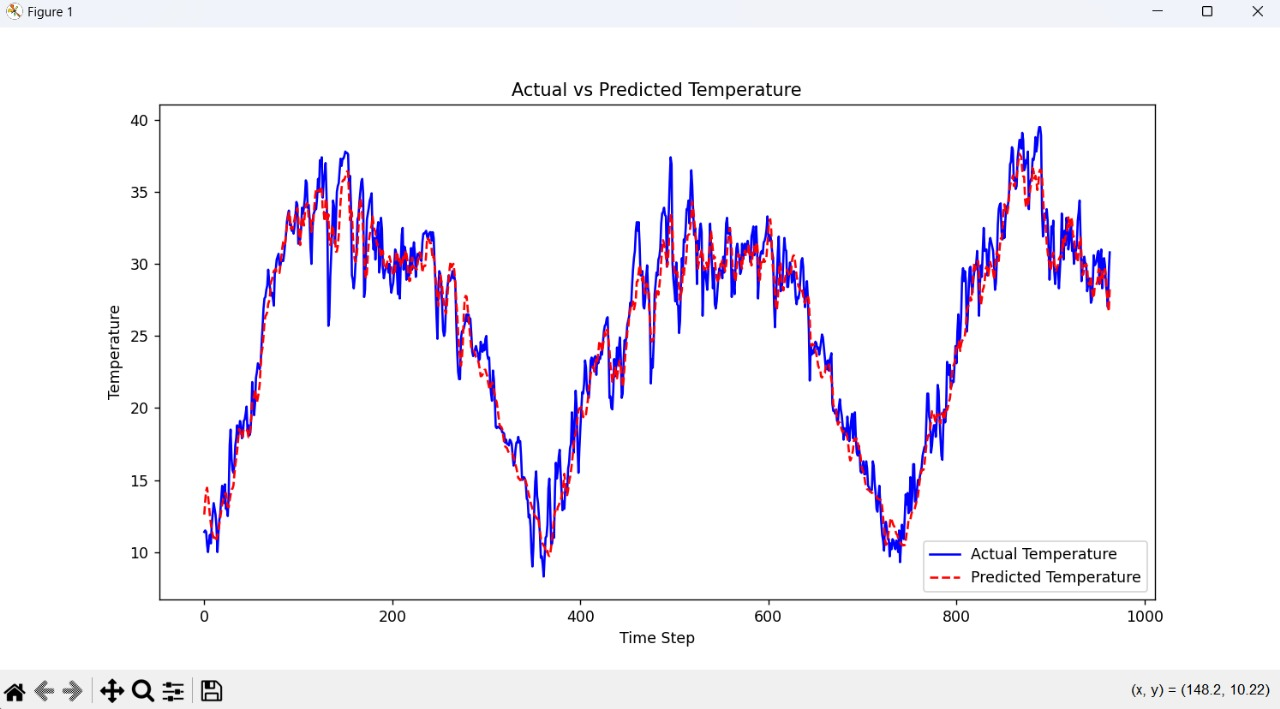
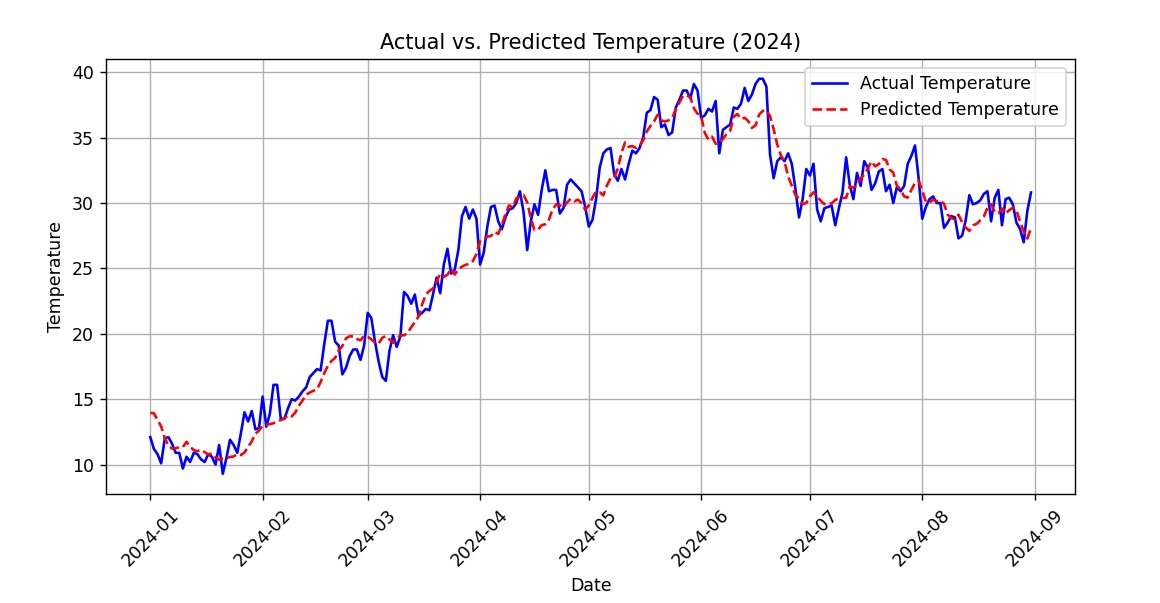
done lstm model for temperature prediction

diff --git a/AI_DRIVEN_ELECTRICITY_DEMAND_PREDICTION/Frontend/myapp/src/components/Models.jsx b/AI_DRIVEN_ELECTRICITY_DEMAND_PREDICTION/Frontend/myapp/src/components/Models.jsx
@@ -47,7 +47,7 @@ function PredictionCard({ title, modelName, rmseValue, imageSrc }) {
           <PredictionCard
             title="LSTM"
             modelName="LSTM"
-            rmseValue={1.7}
+            rmseValue={1.88}
             imageSrc={temp2}
           />
         </section>

diff --git a/AI_DRIVEN_ELECTRICITY_DEMAND_PREDICTION/temperature_prediction/lstm/model.py b/AI_DRIVEN_ELECTRICITY_DEMAND_PREDICTION/temperature_prediction/lstm/model.py
@@ -1,0 +1,145 @@
+import pandas as pd
+import numpy as np
+import tensorflow as tf
+import joblib
+import matplotlib.pyplot as plt
+from tensorflow.keras.models import Sequential, load_model
+from tensorflow.keras.layers import LSTM, Dense
+from sklearn.preprocessing import MinMaxScaler
+from sklearn.metrics import mean_squared_error, mean_absolute_error, r2_score
+
+# Load dataset
+df = pd.read_csv(r"C:\\Users\\raman\\Documents\\ELECTRICITY_DEMAND\\prediction_model\\data\\Dataset.csv", parse_dates=["Date"])
+
+# Extract date components
+df["Month"] = df["Date"].dt.month
+df["Day"] = df["Date"].dt.day
+df["Year"] = df["Date"].dt.year
+
+# Filter for 2024 data
+df_2024 = df[df["Year"] == 2024]
+
+# Define features and targets
+temp_features = ["dayofweek", "Month", "Day", "Year", "cloudcover", "feelslike"]
+temp_targets = ["tempmax", "tempmin", "temp"]
+
+# Scaling
+temp_scaler = MinMaxScaler()
+temp_target_scaler = MinMaxScaler()
+
+df[temp_features] = temp_scaler.fit_transform(df[temp_features])
+df[temp_targets] = temp_target_scaler.fit_transform(df[temp_targets])
+
+# Save scalers
+joblib.dump(temp_scaler, "temp_scaler.pkl")
+joblib.dump(temp_target_scaler, "temp_target_scaler.pkl")
+
+# Function to create LSTM sequences
+def create_sequences(data, target_columns, seq_length=10):
+    X, y = [], []
+    for i in range(len(data) - seq_length):
+        X.append(data[i:i + seq_length, :-len(target_columns)])  # Input features
+        y.append(data[i + seq_length, -len(target_columns):])  # Targets
+    return np.array(X), np.array(y)
+
+# Prepare sequences
+temp_data = df[temp_features + temp_targets].values
+temp_X, temp_y = create_sequences(temp_data, temp_targets)
+
+# Define LSTM model
+def build_lstm(input_shape, output_size):
+    model = Sequential([
+        LSTM(64, return_sequences=True, input_shape=input_shape),
+        LSTM(32),
+        Dense(output_size)
+    ])
+    model.compile(optimizer='adam', loss='mse')
+    return model
+
+# Train temperature model
+temp_model = build_lstm(temp_X.shape[1:], len(temp_targets))
+temp_model.fit(temp_X, temp_y, epochs=30, batch_size=32, verbose=1)
+temp_model.save("temp_model.keras")
+
+print("Temperature model trained and saved successfully.")
+
+# Load trained model and predict
+temp_model = load_model("temp_model.keras", compile=False)
+temp_model.compile(optimizer='adam', loss='mse')  # Recompile model
+temp_predictions = temp_model.predict(temp_X)
+
+# Debugging statements
+print("Predictions shape:", temp_predictions.shape)
+print("Sample predictions:", temp_predictions[:5])
+print("Actual values shape:", temp_y.shape)
+print("Sample actual values:", temp_y[:5])
+
+# Load scaler
+temp_target_scaler = joblib.load("temp_target_scaler.pkl")
+
+# Inverse transform predictions and actual values
+temp_predictions = temp_target_scaler.inverse_transform(temp_predictions)
+temp_y_actual = temp_target_scaler.inverse_transform(temp_y)
+
+# Calculate evaluation metrics
+rmse = np.sqrt(mean_squared_error(temp_y_actual, temp_predictions))
+mae = mean_absolute_error(temp_y_actual, temp_predictions)
+r2 = r2_score(temp_y_actual, temp_predictions)
+
+# Print metrics
+print(f"RMSE: {rmse}")
+print(f"MAE: {mae}")
+print(f"R2 Score: {r2}")
+
+# Filter actual data for 2024
+df_2024 = df[(df["Year"] == 2024)].copy()
+
+# Extract actual temperature values for 2024
+actual_temp_2024 = df_2024[["Date", "temp"]].reset_index(drop=True)
+
+# Ensure temp_predictions has the correct length
+predicted_temp_2024 = pd.DataFrame({
+    "Date": actual_temp_2024["Date"],
+    "temp": temp_predictions[:len(actual_temp_2024), 2]  # Selecting the correct column
+})
+# Convert 'Date' column to datetime format for proper plotting
+actual_temp_2024["Date"] = pd.to_datetime(actual_temp_2024["Date"])
+predicted_temp_2024["Date"] = pd.to_datetime(predicted_temp_2024["Date"])
+
+
+dataset = pd.read_csv(r"C:\Users\Rakesh\OneDrive\Desktop\vit hackathon\temperature\randomforest\Dataset.csv", parse_dates=["Date"])
+
+
+dataset["Month"] = dataset["Date"].dt.month
+dataset["Day"] = dataset["Date"].dt.day
+dataset["Year"] = dataset["Date"].dt.year
+
+actual_data = dataset[(dataset["Date"] >= "2024-01-01") & (dataset["Date"] <= "2024-08-31")]
+
+
+columns_needed = ["Date", "dayofweek", "Month", "Day", "Year", "dew", "humidity", "solarenergy", "tempmax", "tempmin", "temp"]
+actual_data = actual_data[columns_needed].reset_index(drop=True)
+
+#plt.plot(predicted_temp_2024["Date"], predicted_temp_2024["temp"], label="Predicted Temperature", color='red', linestyle='dashed')
+# Ensure temp_predictions has enough values for 2024
+predicted_temp_2024 = pd.DataFrame({
+    "Date": actual_data["Date"],  # Use actual date range
+    "temp": temp_predictions[-len(actual_data):, 2]  # Correctly align predictions with actual dates
+})
+
+# Convert 'Date' column to datetime format for proper plotting
+predicted_temp_2024["Date"] = pd.to_datetime(predicted_temp_2024["Date"])
+
+plt.figure(figsize=(10, 5))
+plt.plot(actual_data["Date"], actual_data["temp"], label="Actual Temperature", color="blue")
+plt.plot(predicted_temp_2024["Date"], predicted_temp_2024["temp"], label="Predicted Temperature", color='red', linestyle='dashed')
+
+#plt.plot(predicted_data["Date"], predicted_data["temp"], label="Predicted Temperature", color="red", linestyle="dashed")
+plt.xlabel("Date")
+plt.ylabel("Temperature")
+plt.title("Actual vs. Predicted Temperature (2024)")
+plt.legend()
+plt.xticks(rotation=45)
+plt.grid()
+plt.show()
+print(f"RMSE for 2024 predictions: {rmse}")
